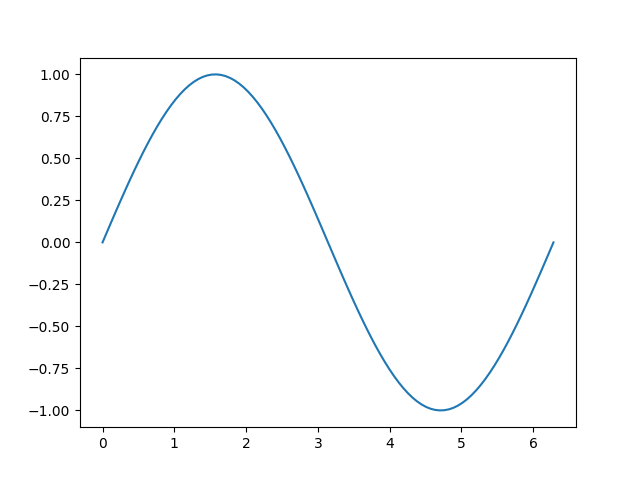
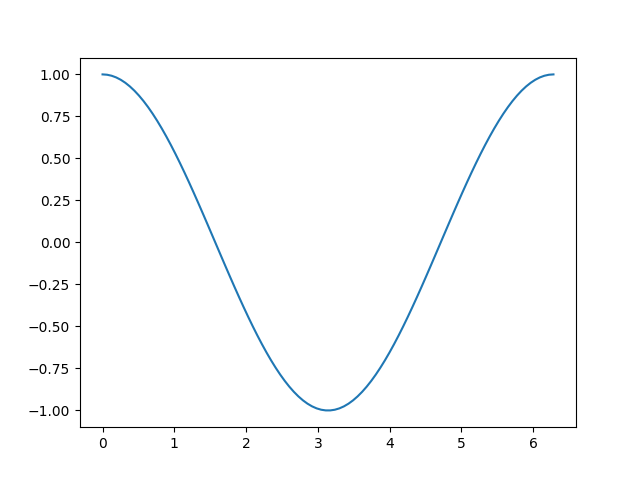
Tercer commit

diff --git a/funcion.py b/funcion.py
@@ -2,7 +2,7 @@ import numpy as np
 import matplotlib.pyplot as plt
 
 t = np.linspace(0, 2*np.pi, 100)
-y = np.sin(t)
+y = np.cos(t)
 
 plt.figure()
 plt.plot(t,y)
